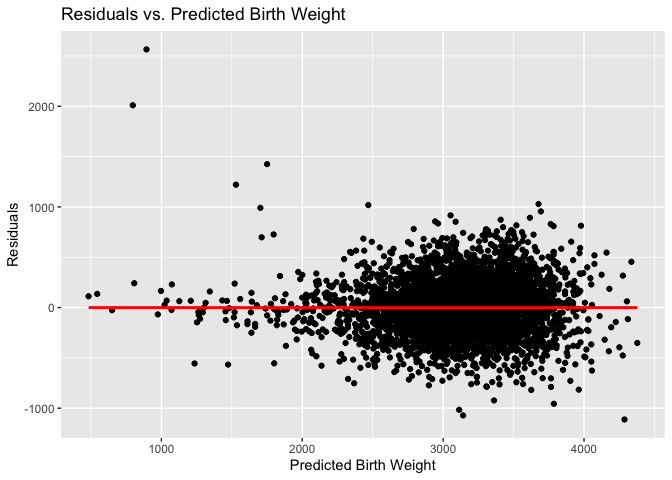
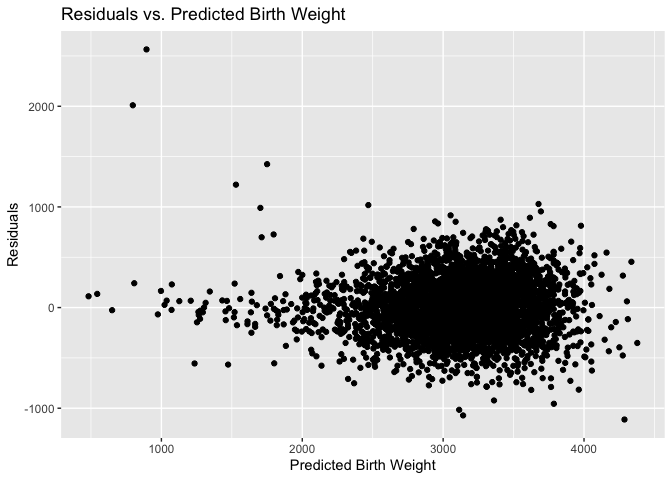
Added descriptions to plots in problem 2 + 3

Changed region(s): [[0.125, 0.625, 0.9375, 0.6562]]

diff --git a/HW6.md b/HW6.md
@@ -1,51 +1,5 @@
-HW6
+Homework 6
 ================
-My An Huynh
-2024-11-19
-
-``` r
-library(tidyverse)
-```
-
-    ## ── Attaching core tidyverse packages ──────────────────────── tidyverse 2.0.0 ──
-    ## ✔ dplyr     1.1.4     ✔ readr     2.1.5
-    ## ✔ forcats   1.0.0     ✔ stringr   1.5.1
-    ## ✔ ggplot2   3.5.1     ✔ tibble    3.2.1
-    ## ✔ lubridate 1.9.3     ✔ tidyr     1.3.1
-    ## ✔ purrr     1.0.2     
-    ## ── Conflicts ────────────────────────────────────────── tidyverse_conflicts() ──
-    ## ✖ dplyr::filter() masks stats::filter()
-    ## ✖ dplyr::lag()    masks stats::lag()
-    ## ℹ Use the conflicted package (<http://conflicted.r-lib.org/>) to force all conflicts to become errors
-
-``` r
-library(p8105.datasets)
-library(modelr)
-library(mgcv)
-```
-
-    ## Loading required package: nlme
-    ## 
-    ## Attaching package: 'nlme'
-    ## 
-    ## The following object is masked from 'package:dplyr':
-    ## 
-    ##     collapse
-    ## 
-    ## This is mgcv 1.9-1. For overview type 'help("mgcv-package")'.
-
-``` r
-library(SemiPar)
-library(GGally)
-```
-
-    ## Registered S3 method overwritten by 'GGally':
-    ##   method from   
-    ##   +.gg   ggplot2
-
-``` r
-set.seed(1)
-```
 
 ## Problem 1
 
@@ -72,14 +26,6 @@ weather_df =
 We’ll focus on a simple linear regression with tmax as the response and
 tmin as the predictor, and are interested in the distribution of two
 quantities estimated from these data:
-
-𝑟̂ 2 log(𝛽̂ 0∗𝛽̂ 1) Use 5000 bootstrap samples and, for each bootstrap
-sample, produce estimates of these two quantities. Plot the distribution
-of your estimates, and describe these in words. Using the 5000 bootstrap
-estimates, identify the 2.5% and 97.5% quantiles to provide a 95%
-confidence interval for 𝑟̂ 2 and log(𝛽̂ 0∗𝛽̂ 1) . Note: broom::glance() is
-helpful for extracting 𝑟̂ 2 from a fitted regression, and broom::tidy()
-(with some additional wrangling) should help in computing log(𝛽̂ 0∗𝛽̂ 1) .
 
 ``` r
 set.seed(1)
@@ -160,17 +106,24 @@ quantiles =
     r_squared_CI = str_c("(", round(r2_0.025, 3), ",", " ", round(r2_0.975, 3), ")"),
     log_beta_product_CI = str_c("(", round(log_beta_0.025, 3), ",", " ", round(log_beta_0.975, 3), ")")
   ) |> 
-  select(r_squared_CI, log_beta_product_CI) |> 
-  knitr::kable()
+  select(r_squared_CI, log_beta_product_CI) 
 
+quantiles |> 
+  knitr::kable()
+```
+
+| r_squared_CI   | log_beta_product_CI |
+|:---------------|:--------------------|
+| (0.893, 0.927) | (1.965, 2.059)      |
+
+``` r
 print(quantiles)
 ```
 
-    ## 
-    ## 
-    ## |r_squared_CI   |log_beta_product_CI |
-    ## |:--------------|:-------------------|
-    ## |(0.893, 0.927) |(1.965, 2.059)      |
+    ## # A tibble: 1 × 2
+    ##   r_squared_CI   log_beta_product_CI
+    ##   <chr>          <chr>              
+    ## 1 (0.893, 0.927) (1.965, 2.059)
 
 ## Problem 2
 
@@ -252,18 +205,87 @@ homicide_glm =
   unnest(glm_results) |> 
   select(city_state, odds_ratio, conf_lower_95, conf_upper_95)
 
-homicide_plot = 
-  homicide_glm |> 
-  ggplot(aes(x = reorder(city_state, odds_ratio), y = odds_ratio)) +
-  geom_point() +
-  geom_errorbar(aes(ymin = conf_lower_95, ymax = conf_upper_95)) 
-
-print(homicide_plot)
+homicide_glm |> 
+  knitr::kable()
 ```
 
-![](HW6_files/figure-gfm/unnamed-chunk-7-1.png)<!-- -->
+| city_state         | odds_ratio | conf_lower_95 | conf_upper_95 |
+|:-------------------|-----------:|--------------:|--------------:|
+| Albuquerque, NM    |  1.7674995 |     0.8306581 |     3.7609388 |
+| Atlanta, GA        |  1.0000771 |     0.6836012 |     1.4630669 |
+| Baltimore, MD      |  0.4255117 |     0.3245590 |     0.5578655 |
+| Baton Rouge, LA    |  0.3814393 |     0.2092532 |     0.6953103 |
+| Birmingham, AL     |  0.8700153 |     0.5742951 |     1.3180098 |
+| Boston, MA         |  0.6739912 |     0.3560002 |     1.2760222 |
+| Buffalo, NY        |  0.5205704 |     0.2897705 |     0.9352008 |
+| Charlotte, NC      |  0.8838976 |     0.5569929 |     1.4026659 |
+| Chicago, IL        |  0.4100982 |     0.3359897 |     0.5005527 |
+| Cincinnati, OH     |  0.3998277 |     0.2360847 |     0.6771390 |
+| Columbus, OH       |  0.5324845 |     0.3782581 |     0.7495933 |
+| Denver, CO         |  0.4790620 |     0.2364294 |     0.9706934 |
+| Detroit, MI        |  0.5823472 |     0.4622017 |     0.7337235 |
+| Durham, NC         |  0.8123514 |     0.3920374 |     1.6832957 |
+| Fort Worth, TX     |  0.6689803 |     0.3969391 |     1.1274643 |
+| Fresno, CA         |  1.3351647 |     0.5804995 |     3.0709150 |
+| Houston, TX        |  0.7110264 |     0.5576715 |     0.9065526 |
+| Indianapolis, IN   |  0.9187284 |     0.6794344 |     1.2423006 |
+| Jacksonville, FL   |  0.7198144 |     0.5365350 |     0.9657017 |
+| Las Vegas, NV      |  0.8373078 |     0.6076753 |     1.1537154 |
+| Long Beach, CA     |  0.4102163 |     0.1555148 |     1.0820672 |
+| Los Angeles, CA    |  0.6618816 |     0.4581299 |     0.9562510 |
+| Louisville, KY     |  0.4905546 |     0.3047208 |     0.7897189 |
+| Memphis, TN        |  0.7232194 |     0.5291729 |     0.9884224 |
+| Miami, FL          |  0.5152379 |     0.3044831 |     0.8718716 |
+| Milwaukee, wI      |  0.7271327 |     0.4987091 |     1.0601810 |
+| Minneapolis, MN    |  0.9469587 |     0.4782860 |     1.8748838 |
+| Nashville, TN      |  1.0342379 |     0.6847143 |     1.5621816 |
+| New Orleans, LA    |  0.5849373 |     0.4217648 |     0.8112381 |
+| New York, NY       |  0.2623978 |     0.1379459 |     0.4991275 |
+| Oakland, CA        |  0.5630819 |     0.3650924 |     0.8684409 |
+| Oklahoma City, OK  |  0.9740747 |     0.6240860 |     1.5203378 |
+| Omaha, NE          |  0.3824861 |     0.2029670 |     0.7207853 |
+| Philadelphia, PA   |  0.4962756 |     0.3776157 |     0.6522225 |
+| Pittsburgh, PA     |  0.4307528 |     0.2650983 |     0.6999213 |
+| Richmond, VA       |  1.0060520 |     0.4979508 |     2.0326120 |
+| San Antonio, TX    |  0.7046200 |     0.3976578 |     1.2485342 |
+| Sacramento, CA     |  0.6688418 |     0.3347138 |     1.3365132 |
+| Savannah, GA       |  0.8669817 |     0.4222665 |     1.7800544 |
+| San Bernardino, CA |  0.5003444 |     0.1712084 |     1.4622204 |
+| San Diego, CA      |  0.4130248 |     0.1995220 |     0.8549909 |
+| San Francisco, CA  |  0.6075362 |     0.3167902 |     1.1651253 |
+| St. Louis, MO      |  0.7031665 |     0.5303670 |     0.9322661 |
+| Stockton, CA       |  1.3517273 |     0.6211368 |     2.9416496 |
+| Tampa, FL          |  0.8077029 |     0.3477529 |     1.8759988 |
+| Tulsa, OK          |  0.9757694 |     0.6135882 |     1.5517343 |
+| Washington, DC     |  0.6901713 |     0.4683853 |     1.0169757 |
 
-## Problem 3
+``` r
+homicide_glm |> 
+  ggplot(aes(x = reorder(city_state, odds_ratio), y = odds_ratio)) +
+  geom_point() +
+  geom_errorbar(aes(ymin = conf_lower_95, ymax = conf_upper_95)) +
+  theme(
+    axis.text.x = element_text(angle = 45, vjust = 1, hjust = 1, size = 8)
+  ) +
+  labs(
+    title = "Odds Ratio by City with Error Bars",
+    x = "City, State",
+    y = "Odds Ratio"
+  )
+```
+
+![](HW6_files/figure-gfm/unnamed-chunk-7-1.png)<!-- --> The plot shows
+that the adjusted odds ratio for solving homicides comparing male
+victims to female victims keeping all other variables fixed are lowest
+in New York, NY, Baton Rouge, LA and Omaha, NE, and are highest in
+Fresno, CA, Stockton, CA and Albuquerque, NM. The error bars for Fresno,
+Stockton and Albuquerque are also the largest, indicating more
+uncertainty about the true adjusted odds ratio. The error bars in
+Chicago, IL, Philadelphia, OA and New Orleans, LA are the smallest,
+indicating more certainty about the true adjusted OR. Most cities have
+adjusted ORs concentrated around the range 0.5 to 1, indicating little
+to no difference in the likelihood in solving homicides between male and
+female victims. \## Problem 3
 
 ``` r
 bwt_df = 
@@ -291,6 +313,12 @@ bwt_df =
     ## ℹ Use `spec()` to retrieve the full column specification for this data.
     ## ℹ Specify the column types or set `show_col_types = FALSE` to quiet this message.
 
+``` r
+sum(is.na(bwt_df))
+```
+
+    ## [1] 0
+
 From a biological standpoint, I hypothesize that the following factors
 are more likely to underly birthweight: `babysex`, `bhead`, `blength`,
 `gaweeks`, `malform`, `smoken`. From a socioeconomical standpoint, I
@@ -298,9 +326,9 @@ hypothesize that `frace` and `mrace` may also influence birthweight,
 because poverty, education, and employment tend to vary across different
 racial and ethnic groups.
 
-#### Create my own model
-
-I will first fit MLR with these variables as predictors.
+Before fitting any models, I checked for NA values in the data frame.
+The `bwt` data frame contains 0 NA values. \#### Create my own model I
+will first fit MLR with these variables as predictors.
 
 ``` r
 linear_model = lm(bwt ~ babysex + bhead + blength + gaweeks + malform + smoken + mrace + frace, data = bwt_df)
@@ -467,15 +495,12 @@ bwt_plot =
   add_residuals(interaction_model) |> 
   ggplot(aes(x = pred, y = resid)) +
   geom_point() +
-  geom_smooth(method = "lm", se = FALSE,  color = "red") +
   labs(
     title = "Residuals vs. Predicted Birth Weight", x = "Predicted Birth Weight", y = "Residuals"
   )
 
 print(bwt_plot)
 ```
-
-    ## `geom_smooth()` using formula = 'y ~ x'
 
 ![](HW6_files/figure-gfm/unnamed-chunk-13-1.png)<!-- -->
 
@@ -611,3 +636,11 @@ cv_results_df |>
 ```
 
 ![](HW6_files/figure-gfm/unnamed-chunk-16-1.png)<!-- -->
+
+The RMSE for the simple linear model (model 1) is the highest,
+indicating poor model fit. The RMSE for the model 2 is lower than that
+for model 1, and is slightly higher than that for my proposed model. The
+majority of RMSE data points for model 2 are concentrated around 287,
+and the majority of RMSE data points for my model are concentrated
+around 275. Overall, I think my model does well predicting birth weights
+among newborns.
